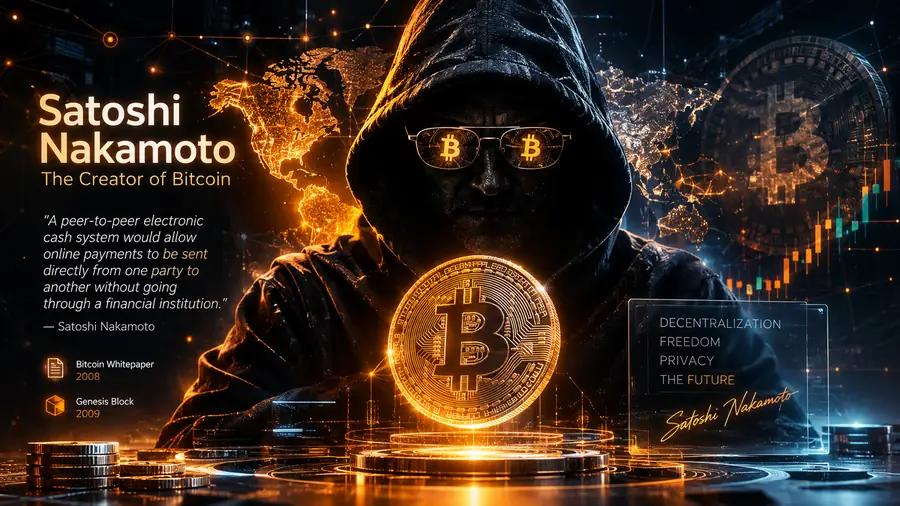
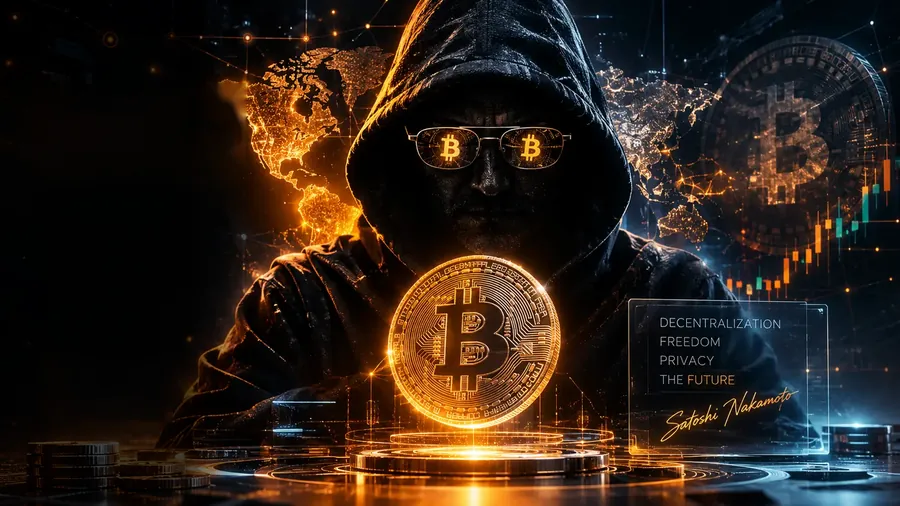
wip: hero without the left text; live map lights, payments and candles
Claude-Session: https://claude.ai/code/session_014N7p5zdDYAxxPzWYC4MPdd

diff --git a/assets/satoshi.js b/assets/satoshi.js
@@ -17,13 +17,65 @@
   function active() { var b = d.querySelector('[data-rl]:not([hidden]) [data-sx]') || d.querySelector('[data-sx]'); return b; }
 
   /* ---- the picture: embers rise in front of it and it leans a little towards the pointer */
+  /* the map and the candles in the picture come alive: city lights twinkle, payments fly between continents, and a
+     wave of light runs along the candles while the last one keeps trading. Positions were measured on the artwork
+     (fractions of its width and height), so the effects sit on the drawn map and candles. */
+  var FXC = [[0.8081,0.5511,0.0056,0.0233,0],[0.83,0.5622,0.0056,0.02,0],[0.8406,0.5478,0.0056,0.0244,1],[0.8494,0.5533,0.0075,0.0244,0],[0.8606,0.5533,0.0062,0.0178,0],[0.8706,0.51,0.0062,0.0511,0],[0.8806,0.4956,0.0062,0.0222,0],[0.8956,0.4833,0.0062,0.0444,0],[0.9056,0.4189,0.0062,0.0811,0],[0.9169,0.4122,0.0069,0.0489,0],[0.9288,0.43,0.0069,0.0389,1],[0.9462,0.4389,0.0075,0.0167,1],[0.9581,0.3378,0.0069,0.0489,0],[0.9581,0.3833,0.0069,0.0567,1],[0.97,0.3644,0.0062,0.0167,1],[0.9819,0.3144,0.0069,0.0622,0]], FXP = [[0.3131,0.2167],[0.3925,0.42],[0.3512,0.4833],[0.3519,0.1644],[0.3262,0.27],[0.3619,0.2011],[0.3519,0.3911],[0.3669,0.4811],[0.35,0.3722],[0.3562,0.3811],[0.3431,0.4456],[0.3094,0.3144],[0.3238,0.2533],[0.3319,0.1833],[0.3488,0.3878],[0.3431,0.1411],[0.3019,0.3222],[0.3212,0.3578],[0.3888,0.4333],[0.3594,0.4822],[0.3669,0.4856],[0.3562,0.1122],[0.3975,0.4556],[0.355,0.37],[0.3956,0.2733],[0.3731,0.4622],[0.3269,0.26],[0.4062,0.4278],[0.3394,0.1889],[0.3238,0.2922],[0.3787,0.1444],[0.31,0.1367],[0.3412,0.1389],[0.3869,0.4444],[0.395,0.41],[0.3713,0.12],[0.3069,0.3156],[0.3875,0.4533],[0.3581,0.2556],[0.3388,0.3478],[0.3812,0.4633],[0.2981,0.1422],[0.34,0.4056],[0.3219,0.2578],[0.3494,0.4833],[0.3469,0.3644],[0.365,0.3911],[0.3812,0.4144],[0.3581,0.2611],[0.3356,0.3011],[0.4012,0.26],[0.3825,0.4511],[0.3238,0.2567],[0.34,0.3767],[0.3181,0.2822],[0.3262,0.1356],[0.3031,0.3456],[0.3888,0.4156],[0.3362,0.4433],[0.3819,0.1878],[0.4056,0.2444],[0.3406,0.44],[0.3962,0.4622],[0.3288,0.2844],[0.3225,0.2044],[0.3694,0.4711],[0.335,0.2967],[0.3725,0.4622],[0.3606,0.46],[0.3481,0.3933],[0.755,0.3578],[0.7331,0.4444],[0.5838,0.2922],[0.5975,0.3033],[0.5994,0.3011],[0.7662,0.3978],[0.7575,0.4322],[0.7125,0.3189],[0.5825,0.2744],[0.765,0.3911],[0.7412,0.2967],[0.7212,0.3456],[0.7594,0.3522],[0.5919,0.29],[0.5894,0.3089],[0.5894,0.3111],[0.5938,0.2789],[0.7562,0.3622],[0.7331,0.4456],[0.5844,0.2822],[0.5956,0.2889],[0.7344,0.4667],[0.5856,0.31],[0.7656,0.3944],[0.5869,0.2733],[0.7794,0.3833],[0.5806,0.2756],[0.5838,0.3044],[0.7194,0.3211],[0.5881,0.29],[0.5863,0.29],[0.7506,0.4144],[0.5988,0.2956],[0.5869,0.2689],[0.5962,0.2922],[0.5838,0.2967],[0.7225,0.3456],[0.7412,0.4511],[0.5881,0.3067],[0.5825,0.3078],[0.7125,0.3711],[0.5962,0.3],[0.5881,0.2656],[0.5863,0.3144],[0.7331,0.45],[0.5988,0.2844],[0.7344,0.4622],[0.5925,0.2933],[0.7525,0.3589],[0.5806,0.2767],[0.7694,0.3911],[0.585,0.3089],[0.5969,0.2922],[0.7444,0.4278],[0.7569,0.3522],[0.7656,0.3933],[0.5869,0.3078],[0.5906,0.3067],[0.7712,0.2289],[0.5925,0.3056],[0.7738,0.3911],[0.7669,0.3978],[0.8038,0.3778],[0.7919,0.3822],[0.7438,0.4256],[0.78,0.3822],[0.7294,0.3956],[0.7694,0.3967],[0.7825,0.3822],[0.7775,0.3811],[0.7656,0.3956],[0.7981,0.3822],[0.8044,0.3778],[0.7331,0.4467]];
+  function Fx(cv) {
+    var g = cv.getContext && cv.getContext('2d'); if (!g) return null;
+    var W = 0, H = 0, sp = [], k, live = { o: 0, c: 0, t: 0 };
+    function size() { var r = cv.getBoundingClientRect(), dpr = Math.min(w.devicePixelRatio || 1, 1.5); W = Math.max(40, r.width); H = Math.max(40, r.height); cv.width = Math.round(W * dpr); cv.height = Math.round(H * dpr); g.setTransform(dpr, 0, 0, dpr, 0, 0); }
+    var ph = FXP.map(function () { return [Math.random() * 6.28, .6 + Math.random() * 1.6]; });
+    function spawn() {
+      var a = FXP[Math.floor(Math.random() * FXP.length)], b = FXP[Math.floor(Math.random() * FXP.length)];
+      if (Math.abs(a[0] - b[0]) < .12) return;
+      sp.push({ a: a, b: b, t: 0, d: 1.6 + Math.random() * 1.2 });
+    }
+    function draw(t, dt) {
+      g.clearRect(0, 0, W, H); g.globalCompositeOperation = 'lighter';
+      var u = Math.min(W, H) / 506;
+      for (k = 0; k < FXP.length; k++) {   /* city lights */
+        var q = FXP[k], f = Math.pow(Math.max(0, Math.sin(t * ph[k][1] + ph[k][0])), 6); if (f < .03) continue;
+        var x = q[0] * W, y = q[1] * H, r = (1.4 + 3.2 * f) * u, gr = g.createRadialGradient(x, y, 0, x, y, r * 3);
+        gr.addColorStop(0, 'rgba(255,236,190,' + (.95 * f).toFixed(2) + ')'); gr.addColorStop(.35, 'rgba(255,170,60,' + (.5 * f).toFixed(2) + ')'); gr.addColorStop(1, 'rgba(247,147,26,0)');
+        g.fillStyle = gr; g.beginPath(); g.arc(x, y, r * 3, 0, 6.283); g.fill();
+      }
+      if (sp.length < 7 && Math.random() < dt * 1.6) spawn();
+      for (k = sp.length - 1; k >= 0; k--) {   /* payments between continents */
+        var s = sp[k]; s.t += dt / s.d; if (s.t >= 1) { sp.splice(k, 1); continue; }
+        var ax = s.a[0] * W, ay = s.a[1] * H, bx2 = s.b[0] * W, by = s.b[1] * H, cx = (ax + bx2) / 2, cy = Math.max(-.05 * H, Math.min(ay, by) - Math.abs(bx2 - ax) * .55);
+        for (var j = 0; j < 14; j++) {
+          var e = s.t - j * .018; if (e < 0) break;
+          var m = 1 - e, px2 = m * m * ax + 2 * m * e * cx + e * e * bx2, py = m * m * ay + 2 * m * e * cy + e * e * by, al = (1 - j / 14) * Math.sin(s.t * Math.PI);
+          g.fillStyle = 'rgba(255,' + (200 - j * 6) + ',90,' + al.toFixed(2) + ')'; g.beginPath(); g.arc(px2, py, (j ? 1.3 : 2.4) * u, 0, 6.283); g.fill();
+        }
+      }
+      for (k = 0; k < FXC.length; k++) {   /* a wave of light along the candles */
+        var c = FXC[k], v = Math.pow(Math.max(0, Math.sin(t * 1.7 - k * .42)), 5), cx2 = c[0] * W, cy2 = c[1] * H, cw = Math.max(3, c[2] * W), ch = c[3] * H;
+        if (v > .02) { g.fillStyle = (c[4] ? 'rgba(80,230,210,' : 'rgba(255,175,70,') + (.85 * v).toFixed(2) + ')'; g.shadowColor = c[4] ? '#3ee0cc' : '#ffa53a'; g.shadowBlur = 14 * v * u; g.fillRect(cx2 - 1, cy2 - 1, cw + 2, ch + 2); g.shadowBlur = 0; }
+      }
+      var L = FXC[FXC.length - 1];   /* the last candle keeps trading: a new one grows on top of it */
+      if (L) {
+        live.t += dt; if (live.t > 5) { live.t = 0; live.o = live.c; }
+        live.c += (Math.random() - .45) * dt * 1.4; live.c = Math.max(-.6, Math.min(1.2, live.c));
+        var bw = Math.max(3, L[2] * W), x0 = L[0] * W + bw * 2.2, base = L[1] * H, unit = L[3] * H, top = base - live.c * unit, open = base - live.o * unit, up = top < open;
+        g.globalCompositeOperation = 'source-over'; g.fillStyle = up ? 'rgba(62,224,204,.95)' : 'rgba(255,150,40,.95)'; g.shadowColor = g.fillStyle; g.shadowBlur = 10 * u;
+        g.fillRect(x0, Math.min(top, open), bw, Math.max(2, Math.abs(top - open))); g.fillRect(x0 + bw / 2 - .6, Math.min(top, open) - unit * .25, 1.2, Math.abs(top - open) + unit * .5); g.shadowBlur = 0;
+      }
+      g.globalCompositeOperation = 'source-over';
+    }
+    size();
+    return { size: size, draw: draw };
+  }
   function Hero(a) {
     var box = a.querySelector('.sx-art0'), cv = a.querySelector('.sx-emb'); if (!box || !cv || !cv.getContext) return null;
+    var fx = a.querySelector('.sx-fx') ? Fx(a.querySelector('.sx-fx')) : null, t0 = Date.now(), last = t0;
     var g = cv.getContext('2d'), W = 0, H = 0, ps = [], alive = true, seen = true, tm = 0, i;
     function size() { var r = cv.getBoundingClientRect(), dpr = Math.min(w.devicePixelRatio || 1, 1.5); W = Math.max(40, Math.round(r.width)); H = Math.max(40, Math.round(r.height)); cv.width = W * dpr; cv.height = H * dpr; g.setTransform(dpr, 0, 0, dpr, 0, 0); }
     function born(p, any) { p.x = (.2 + Math.random() * .6) * W; p.y = any ? Math.random() * H : H * (.78 + Math.random() * .22); p.v = 10 + Math.random() * 26; p.r = .6 + Math.random() * 1.7; p.w = Math.random() * 6.28; p.l = 0; p.m = 5 + Math.random() * 7; return p; }
     function frame() {
-      if (!alive) return; tm = setTimeout(frame, 40); if (!seen || d.hidden) return;
+      if (!alive) return; tm = setTimeout(frame, 40); if (!seen || d.hidden) { last = Date.now(); return; }
+      var now = Date.now(); if (fx) fx.draw((now - t0) / 1000, Math.min(.1, (now - last) / 1000)); last = now;
       g.clearRect(0, 0, W, H); g.globalCompositeOperation = 'lighter';
       for (i = 0; i < ps.length; i++) {
         var p = ps[i]; p.l += .04; p.y -= p.v * .04; p.x += Math.sin(p.w + p.l * 1.7) * .35; if (p.l > p.m || p.y < H * .08) born(p);
@@ -31,9 +83,9 @@
       }
     }
     size(); for (i = 0; i < (w.innerWidth < 700 ? 22 : 44); i++) ps.push(born({}, true));
-    if (!RM) frame();
+    if (!RM) frame(); else if (fx) fx.draw(2.2, 0);
     var io = null; if ('IntersectionObserver' in w) { io = new IntersectionObserver(function (en) { seen = en[0].isIntersecting; }); io.observe(box); }
-    var rs = 0, onRs = function () { clearTimeout(rs); rs = setTimeout(function () { if (alive && cv.offsetParent) size(); }, 150); }; w.addEventListener('resize', onRs);
+    var rs = 0, onRs = function () { clearTimeout(rs); rs = setTimeout(function () { if (alive && cv.offsetParent) { size(); if (fx) { fx.size(); if (RM) fx.draw(2.2, 0); } } }, 150); }; w.addEventListener('resize', onRs);
     var mv = function (e) { var r = box.getBoundingClientRect(); box.style.setProperty('--px', (((e.clientX - r.left) / r.width - .5) * 2).toFixed(3)); box.style.setProperty('--py', (((e.clientY - r.top) / r.height - .5) * 2).toFixed(3)); };
     if (!RM && w.matchMedia && matchMedia('(hover:hover) and (pointer:fine)').matches) box.addEventListener('pointermove', mv, { passive: true });
     return { stop: function () { alive = false; clearTimeout(tm); if (io) io.disconnect(); w.removeEventListener('resize', onRs); box.removeEventListener('pointermove', mv); } };

diff --git a/scripts/build_satoshi.py b/scripts/build_satoshi.py
@@ -200,7 +200,7 @@ html[lang=en] .sx h2.sx-h,html[lang=en] .sx h1{font-family:'Space Grotesk',Vazir
 /* ---- the picture: the user's own artwork, alive but never explicit */
 .sx-art0{position:relative;overflow:hidden;height:clamp(280px,74vh,820px);background:#000}
 .sx-pic{position:absolute;top:0;left:50%;height:100%;aspect-ratio:16/9;translate:-50% 0;-webkit-mask-image:linear-gradient(90deg,transparent,#000 9%,#000 91%,transparent);mask-image:linear-gradient(90deg,transparent,#000 9%,#000 91%,transparent)}
-.sx-pic img{position:absolute;inset:0;width:100%;height:100%;display:block;scale:1.04;translate:calc(var(--px,0)*-14px) calc(var(--py,0)*-9px);transition:translate .6s cubic-bezier(.2,.8,.2,1);animation:sx-breathe 18s ease-in-out infinite alternate}
+.sx-pic img,.sx-pic .sx-fx{position:absolute;inset:0;width:100%;height:100%;display:block;scale:1.04;translate:calc(var(--px,0)*-14px) calc(var(--py,0)*-9px);transition:translate .6s cubic-bezier(.2,.8,.2,1);animation:sx-breathe 18s ease-in-out infinite alternate}
 @keyframes sx-breathe{to{scale:1.09}}
 .sx-g{position:absolute;border-radius:50%;pointer-events:none;mix-blend-mode:screen;translate:-50% -50%}
 .sx-g.e1,.sx-g.e2{top:28.9%;width:5.2%;aspect-ratio:1.5;background:radial-gradient(closest-side,rgba(255,196,84,.95),rgba(247,147,26,.4) 55%,transparent);animation:sx-eye 7s steps(1,end) infinite}
@@ -579,7 +579,7 @@ html[lang=en] .sx-b h3{font-family:'Space Grotesk',Vazirmatn,sans-serif;font-wei
   .mp-io{grid-template-columns:minmax(0,1fr)}.mp-arr::before,[dir=rtl] .mp-arr::before{content:"↓"}.mp-sx{padding:14px 12px 10px}
   .mp-fh,.mp-feed button{grid-template-columns:minmax(0,1.5fr) minmax(0,1fr) minmax(0,.8fr)}.mp-fh span:nth-child(3),.mp-feed .z{display:none}
 }
-@media (prefers-reduced-motion:reduce){.sx-pic img,.sx-g,.sx h1,.ex *,.bx-b.new,.bx-c,.bx-b.q .bx-c,.bx-rd::after,.mp-feed li.n button,.mp-pill.live i,.mp-ld::before,.bx-st.live i,.sx-js .sx-b,.sx-js .sx-b.on{animation:none!important;transition:none!important}}
+@media (prefers-reduced-motion:reduce){.sx-pic img,.sx-pic .sx-fx,.sx-g,.sx h1,.ex *,.bx-b.new,.bx-c,.bx-b.q .bx-c,.bx-rd::after,.mp-feed li.n button,.mp-pill.live i,.mp-ld::before,.bx-st.live i,.sx-js .sx-b,.sx-js .sx-b.on{animation:none!important;transition:none!important}}
 """
 
 
@@ -595,7 +595,7 @@ def page():
         facts = "".join(f"<li><b>{e(k)}</b>{e(v)}</li>" for k, v in KNOWN[lg])
         chips = "".join(f"<li><b>{e(a)}</b>{e(b)}</li>" for a, b in CHIPS[lg])
         return (f"<article class='sx' data-sx><header class='sx-hero'><div class='sx-art0'><div class='sx-pic'>"
-                f"<picture><source media='(max-width:700px)' srcset='/assets/satoshi-hero-900.webp'><img src='/assets/satoshi-hero.webp' alt='{e(T['alt'][lg])}' width='1600' height='900' fetchpriority='high' decoding='async'></picture>"
+                f"<picture><source media='(max-width:700px)' srcset='/assets/satoshi-hero-900.webp?v=2'><img src='/assets/satoshi-hero.webp?v=2' alt='{e(T['alt'][lg])}' width='1600' height='900' fetchpriority='high' decoding='async'></picture><canvas class='sx-fx' aria-hidden='true'></canvas>"
                 f"<i class='sx-g h'></i><i class='sx-g e1'></i><i class='sx-g e2'></i><i class='sx-g c'></i><canvas class='sx-emb' aria-hidden='true'></canvas></div></div>"
                 f"<div class='sx-head sx-w'><div class='sx-hc'><div class='meta'><a href='/'>{T['home'][lg]}</a> / {e(T['crumb'][lg])}</div>"
                 f"<h1>{e(T['h1'][lg])}</h1><p class='sx-lead'>{e(T['lead'][lg])}</p><ul class='sx-chips'>{chips}</ul></div></div></header>"
